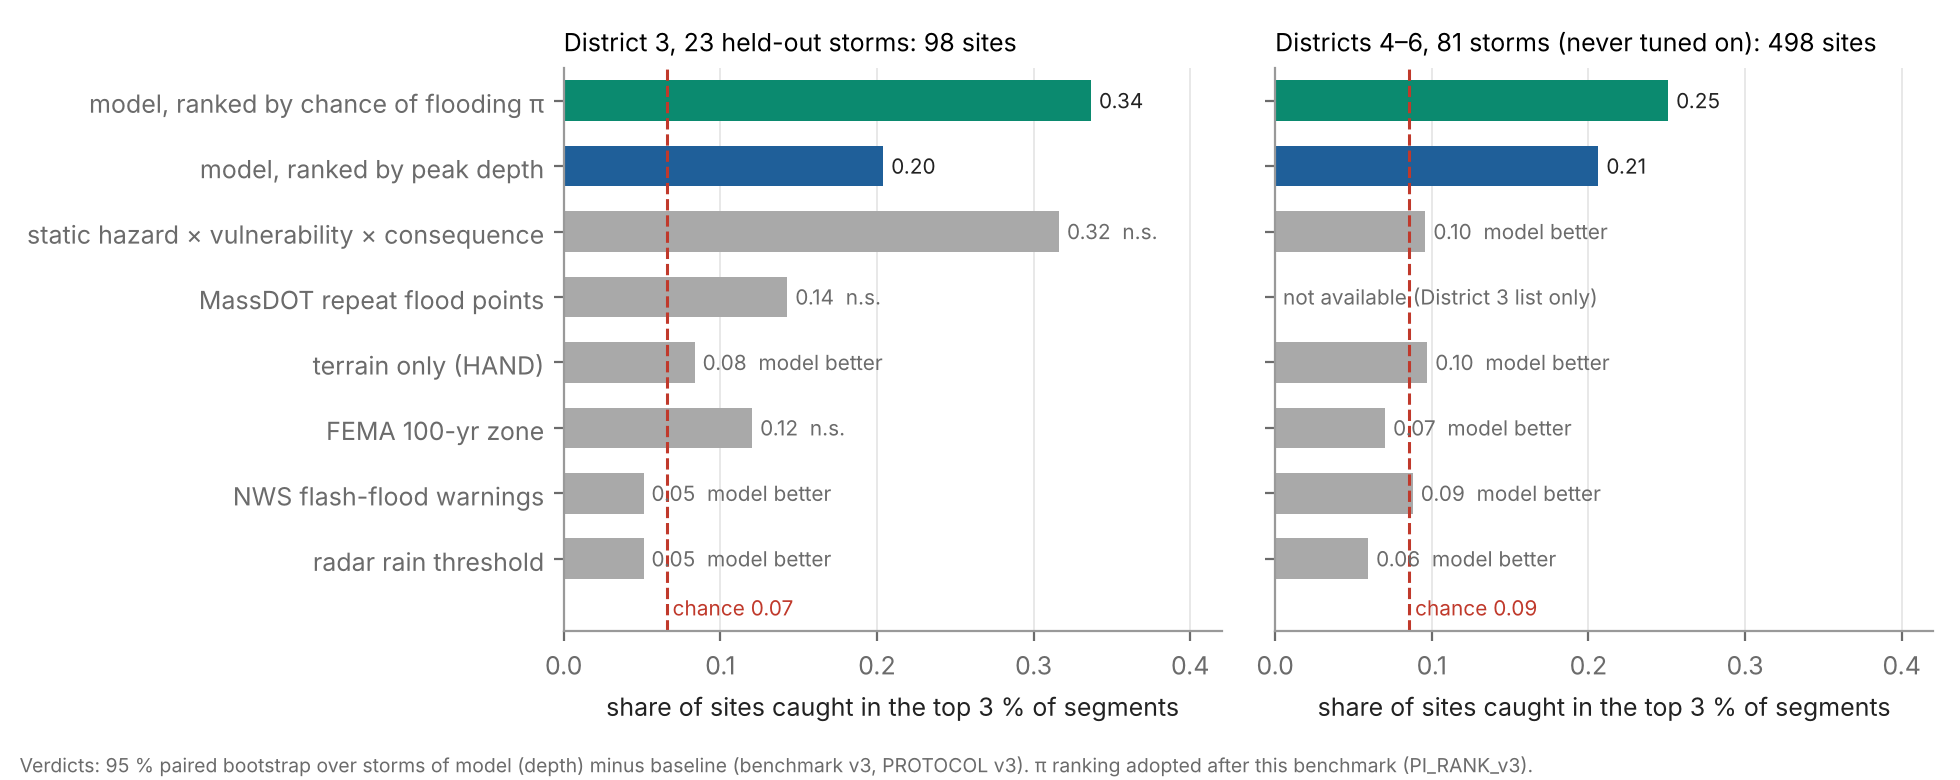
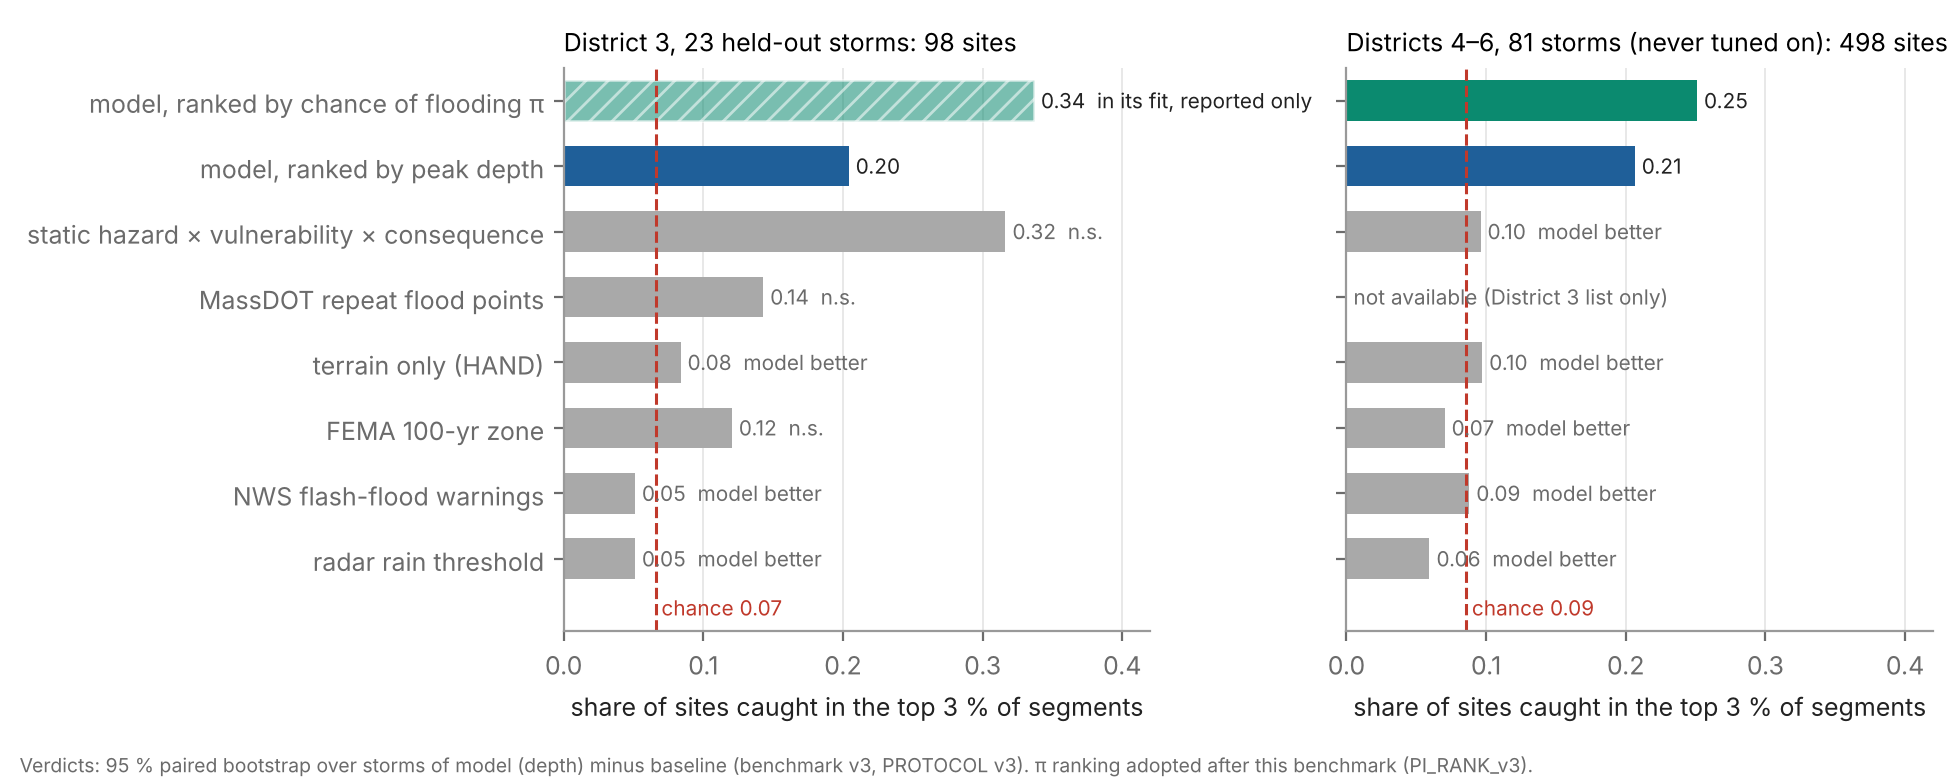
Paper 1: figure captions; Fig 2 no longer shows the extra closure terms as part of P; Fig 6 marks the in-sample π bar
Claude-Session: https://claude.ai/code/session_01SiES76oibK6J65JoLEiesB

diff --git a/proto/paper_figs.py b/proto/paper_figs.py
@@ -57,13 +57,16 @@ def fig6():
         v = [M[m]['site_recall_3pct'] if m in M else 0.0 for m in rows]; chance = M['M']['chance_3pct']
         cols = [C_PI if m == 'P' else C_MODEL if m == 'M' else C_BASE for m in rows]
         yy = np.arange(len(rows))[::-1]
-        ax.barh(yy, v, color=cols, height=0.62)
+        bars = ax.barh(yy, v, color=cols, height=0.62)
+        if sk.startswith('test1'):     # pi was fitted on the 25 District 3 storms: in-sample here, reported only (PI_RANK_v3)
+            bars[rows.index('P')].set_hatch('///'); bars[rows.index('P')].set_edgecolor('white'); bars[rows.index('P')].set_alpha(0.55)
         ax.axvline(chance, color=C_CHANCE, ls='--', lw=1.1); ax.text(chance, -0.75, f' chance {chance:.2f}', color=C_CHANCE, fontsize=7.5, va='center')
         for yi, m, vi in zip(yy, rows, v):
             if m not in M: ax.text(0.005, yi, 'not available (District 3 list only)', va='center', fontsize=7.5, color=MUTED); continue
             tag = ''
             if m not in ('M', 'P') and m in MB and 'recall_3pct' in MB[m]:
                 t = MB[m]['recall_3pct']; tag = ('  model better' if t['model_better'] else '  baseline better') if t['significant'] else '  n.s.'
+            if m == 'P' and sk.startswith('test1'): tag = '  in its fit, reported only'
             ax.text(vi + 0.005, yi, f'{vi:.2f}{tag}', va='center', fontsize=7.5, color=INK if m in ('M', 'P') else MUTED)
         ax.set_yticks(yy); ax.set_yticklabels([lab[m] for m in rows] if ax is axs[0] else []); ax.set_xlim(0, 0.42); ax.set_ylim(-1.1, len(rows) - 0.5)
         ax.set_title(f"{title}: {M['M']['sites']} sites", fontsize=9, loc='left'); ax.set_xlabel('share of sites caught in the top 3 % of segments')
@@ -171,7 +174,7 @@ def fig2():
     # engine
     box(24, 13.5, 23, 31.5, 'Rain excess and 2-D flood', ['NRCS curve number, AMC II × 0.88', '2 mm/h soak-in', '', 'LISFLOOD-FP 8.2', 'local-inertial, 20 m', 'rain on grid, Δt ≤ 1 s (parity)', '', 'notches at crossings,', 'continuous channels (T2)'], fc='#e8f0fe', ec='#8ab4f8')
     # road readout
-    box(52, 13.5, 25, 31.5, 'Road depth → closure chance', ['depth every 10 m along a segment', 'd = 2nd-highest point,', 'storm-added water only', '', 'P = Φ((d − 0.30 m) / 0.10 m)', '+ freeboard, HDS-5 culvert', 'and fast-water terms', '', 'closed if P ≥ 0.5'], fc='#e6f4ea', ec='#81c995')
+    box(52, 13.5, 25, 31.5, 'Road depth → closure chance', ['depth every 10 m along a segment', 'd = 2nd-highest point,', 'storm-added water only', '', 'P = Φ((d − 0.30 m) / 0.10 m)', 'closed if P ≥ 0.5', '', '(freeboard, culvert, fast-water', 'terms: separate layers)'], fc='#e6f4ea', ec='#81c995')
     # uses
     box(83, 33, 33, 12, 'Evaluation', ['site recall at 3 % vs chance and', 'named alternatives; held-out storms,', 'transfer to Districts 4–6'])
     box(83, 16.5, 33, 14.5, 'Consequences', ['closed segments removed, wet ones slowed', '(Pregnolato et al. 2017); detours,', 'delay, residents losing timely access', 'to hospital, fire, police (Census 2020)'])

diff --git a/docs/proto/paper/MANUSCRIPT.md b/docs/proto/paper/MANUSCRIPT.md
@@ -349,6 +349,46 @@ erosion term outside the calibration storm; and the one-time opening of the five
 
 ---
 
+## Figure captions
+
+**Fig. 1.** Study area. MassDOT Highway District 3 road graph (grey, 52,698 segments) and the 20 × 20 km boxes of the storm catalogue:
+two development storms (red), 23 held-out District 3 storms (blue) and 81 transfer storms in Districts 4–6 (purple). The five locked
+storms are not shown.
+
+**Fig. 2.** Modelling chain. Radar rain (replays) or HRRR rain (forecasts) and the ground layers drive a rain-on-grid LISFLOOD-FP
+simulation; road depth along each segment gives the closure probability, which feeds the evaluation, the network consequences and the
+forecast list. In all reported results the closure probability is the depth term alone; freeboard, culvert-overtopping and fast-water
+terms are separate map layers.
+
+**Fig. 3.** Time-step check at the two USGS gauges in the calibration box (North Nashua River at Fitchburg and near Leominster),
+September 2023 storm: observed stage rise (grey; gaps left open) and modelled rise with the solver's default step (≤ 10 s, red), the
+parity step (≤ 1 s, blue) and a halved step (≤ 0.5 s, dotted). The 1 s and 0.5 s runs coincide; the default step produces spurious
+late rises.
+
+**Fig. 4.** Calibration of the curve-number scale on the September 2023 storm: mean absolute gauge-rise error (blue) and the signed
+error at each gauge (grey), against the scale applied to pervious curve numbers. 0.85 and 0.88 tie on error and timing; 0.88 was chosen by
+the tie-break fixed in advance. No closure label entered the choice.
+
+**Fig. 5.** Held-out skill in District 3 (23 storms, 98 documented sites): share of sites caught against the share of road segments
+flagged, ranking segments by modelled depth, with its 90 % storm-clustered bootstrap interval (band) and the chance line (random flagging
+of the same share). The diamond is the fixed 0.30 m rule, which flags 0.41 % of all segments pooled over the storms (0.43 % as the mean of
+the per-storm shares).
+
+**Fig. 6.** The model against named alternatives: share of documented sites caught in the top 3 % of segments, District 3 held-out
+storms (left) and Districts 4–6 (right). "Model better", "n.s.": 95 % paired bootstrap over storms of the depth-ranked model minus each
+alternative. The chance-of-flooding ranking π was fitted on the District 3 storms, so its District 3 value (hatched) is in-sample and
+reported only; Districts 4–6 are its out-of-sample test.
+
+**Fig. 7.** The September 2023 storm run over the whole District (20 m, 17.6 million cells, T2 terrain, operational readout). (a) Peak
+water depth and the road segments closed at some time (red; 135 drawn, one of them at 0.2999 m rounds to p = 0.500 in the map file;
+134 in the run summary). (b) Box-mean rain, segments closed, vehicle-hours lost per hour, and residents losing timely access to a
+hospital, fire station or police station (black), those of them whose own road stays dry (grey) and those cut off from every service
+(green). The calibration storm; consequences are not validated against observations.
+
+**Fig. 8.** Forecast rules on seven out-of-sample storms (43 sites) at long (8–14 h) and short (2–8 h) lead: share of sites caught and
+share of segments flagged (mean and maximum over storms) for the newest single forecast, any of the four 6-hourly members, two of those
+four, and two of all eight members (the operational rule, blue).
+
 ## Tables (drafts)
 
 **Table 1. Data sources.**
